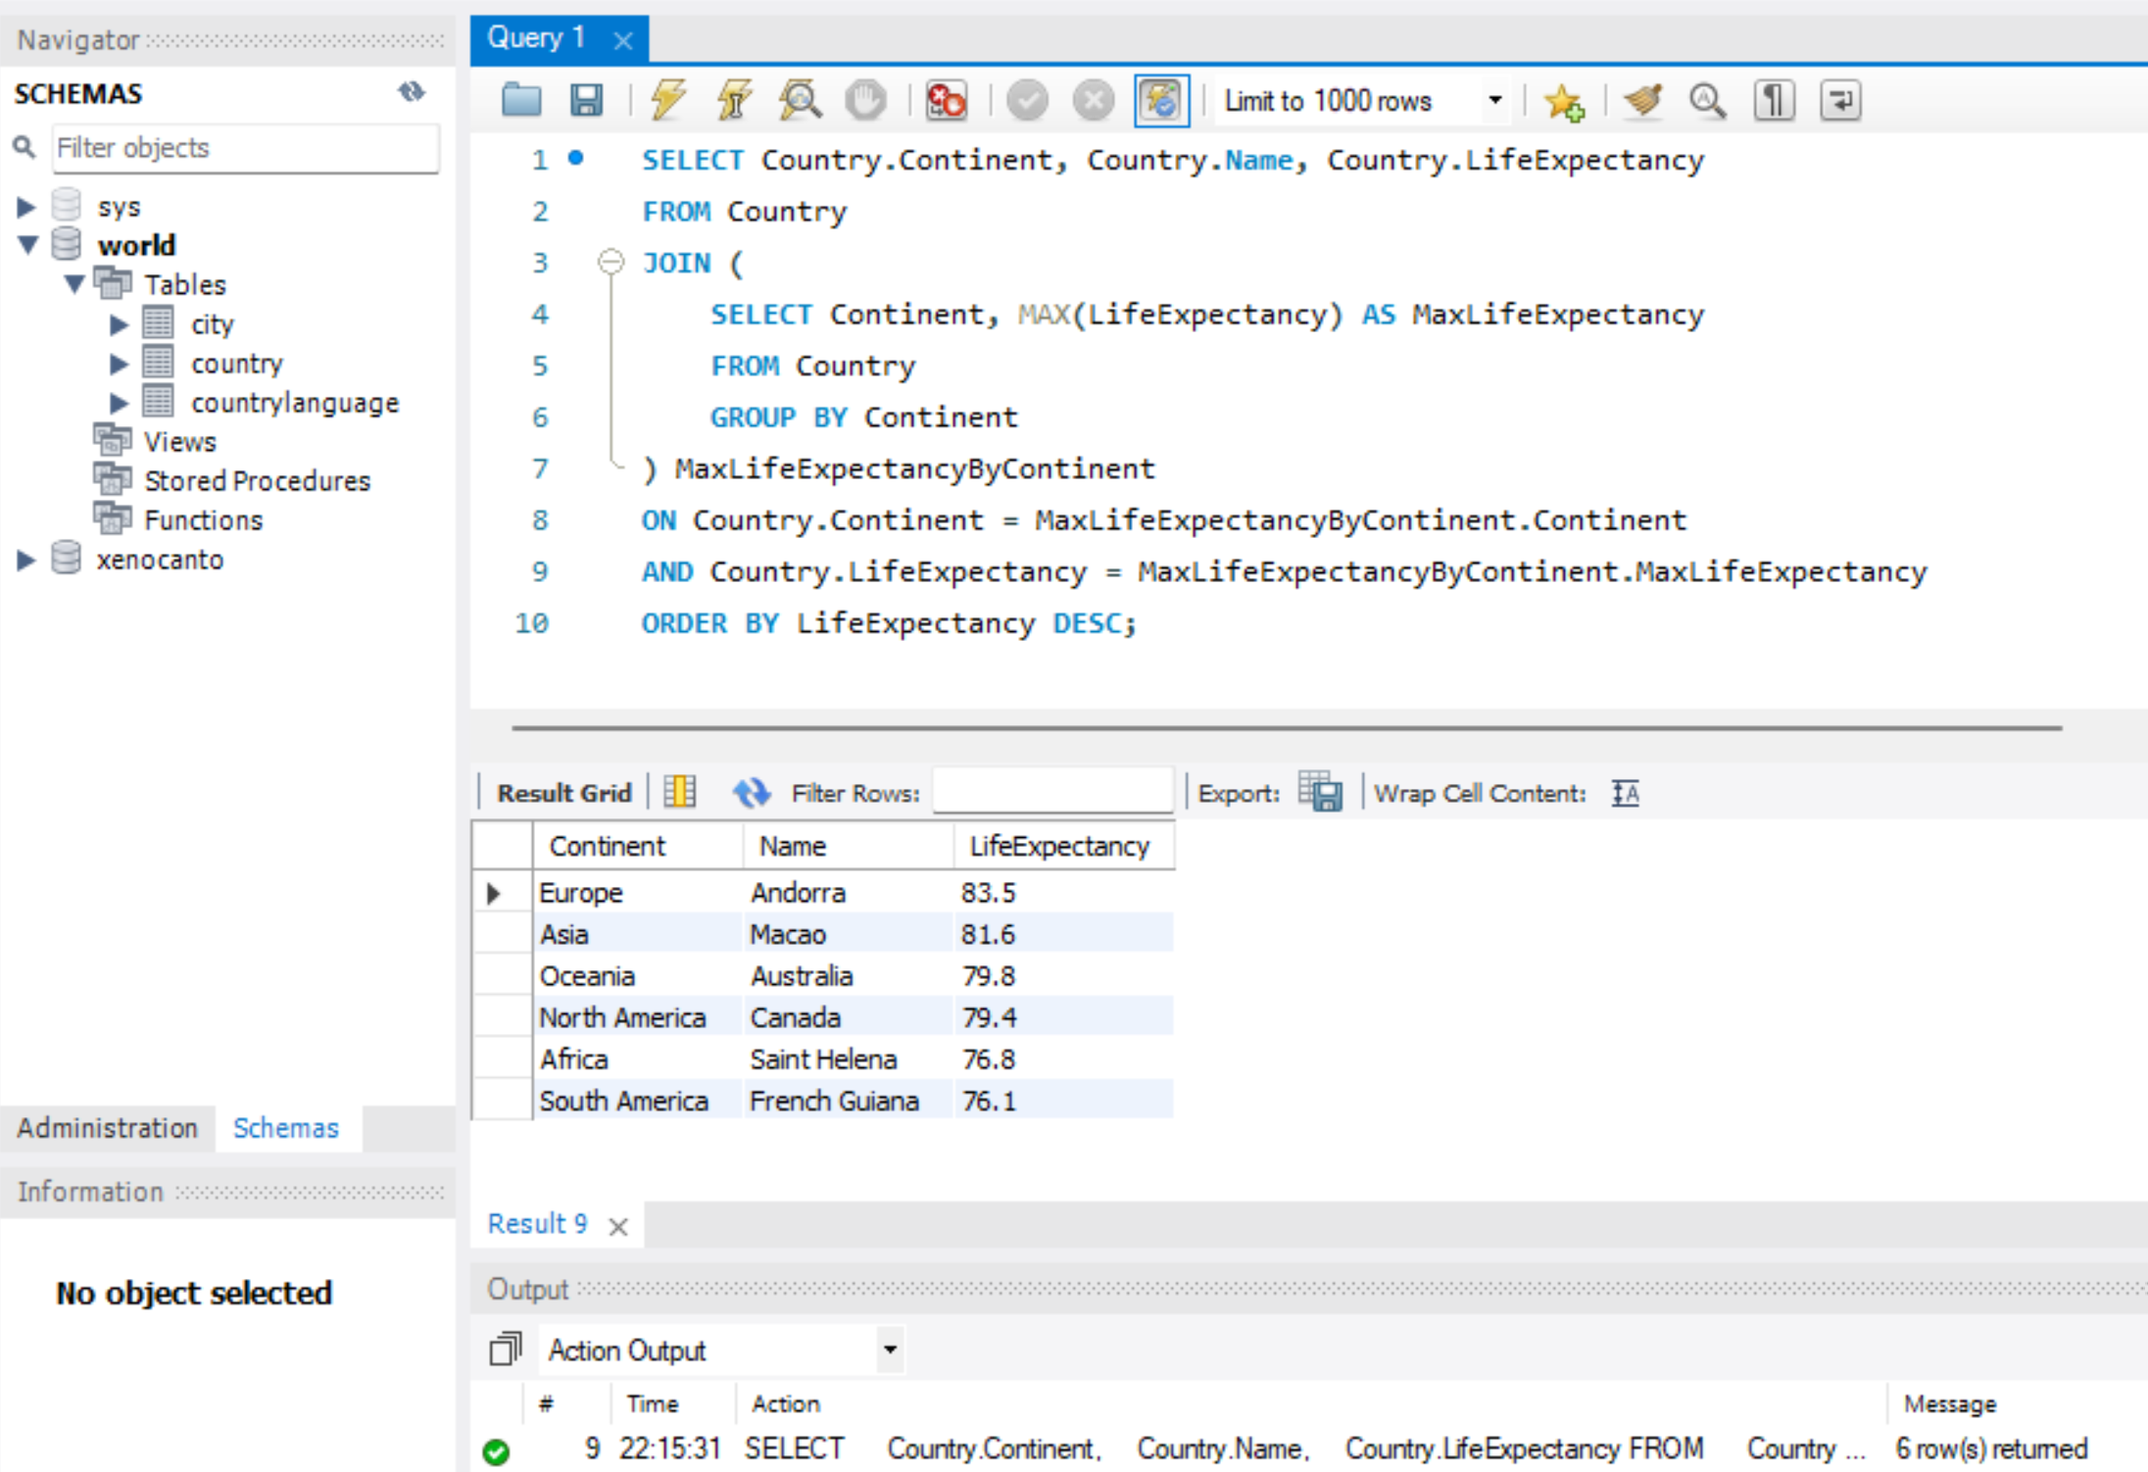
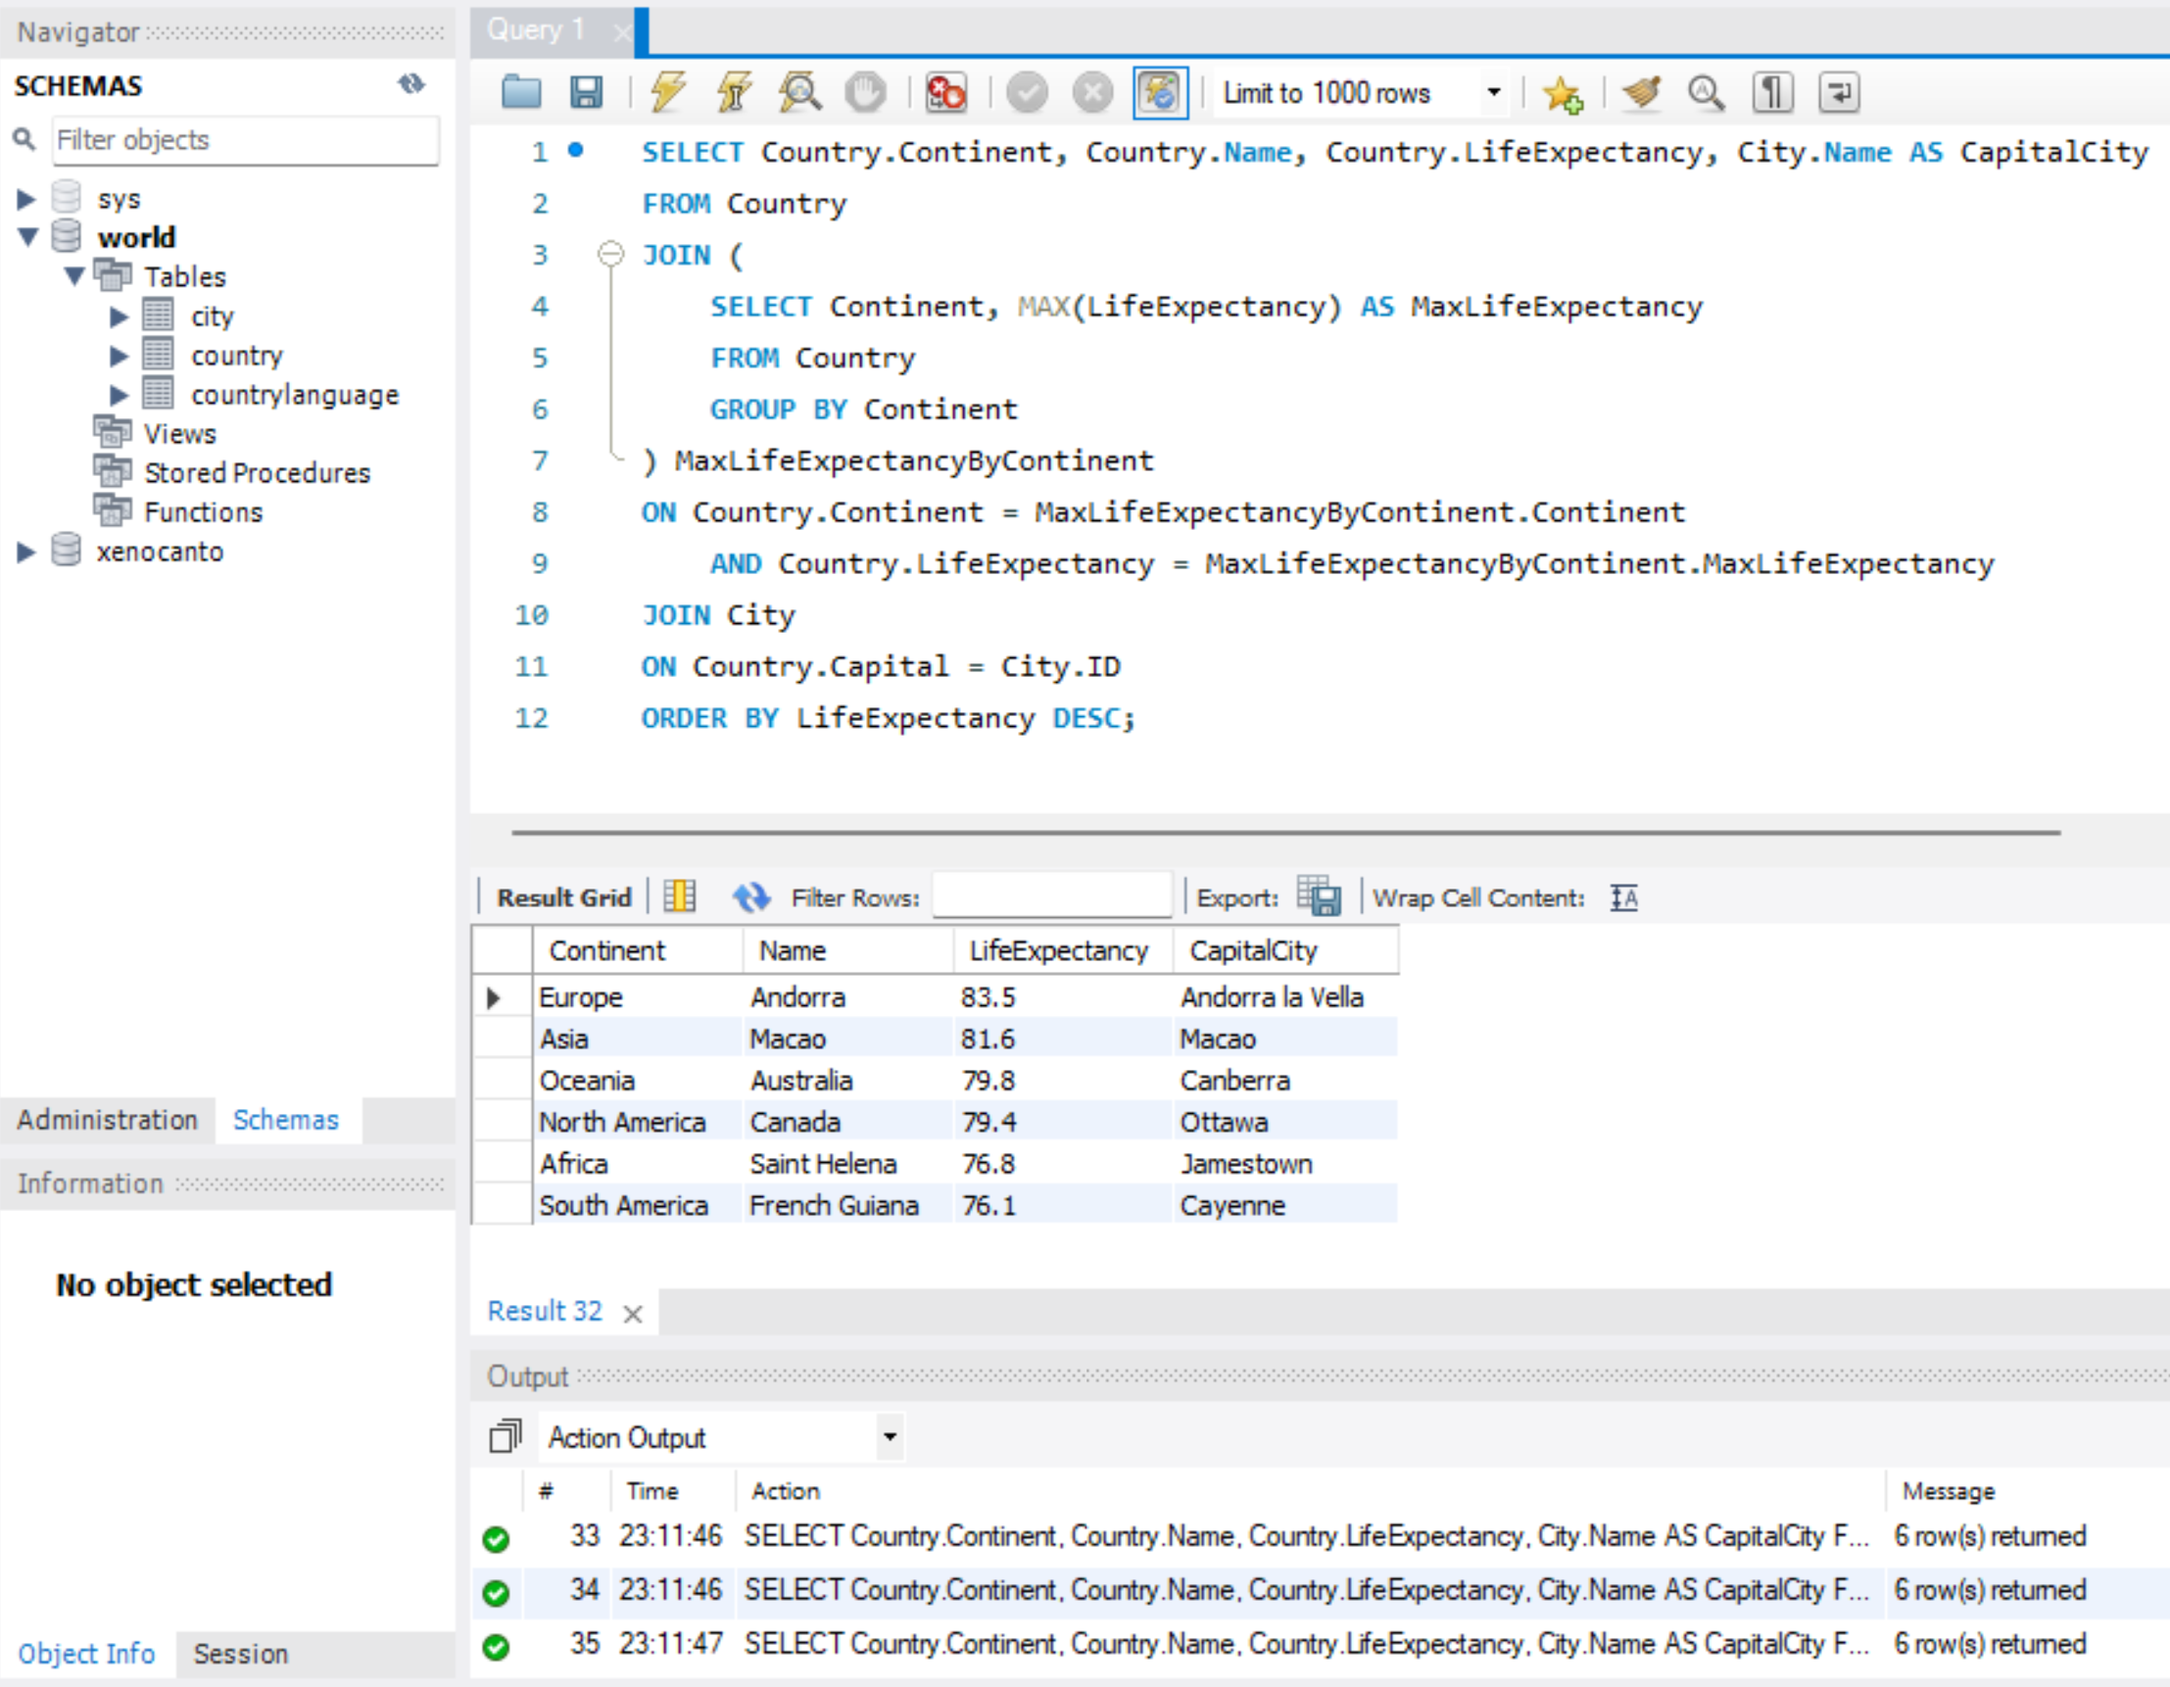
Changed query to include 2 joins

diff --git a/README.md b/README.md
@@ -27,10 +27,11 @@ The `city`, `country`, and `countrylanguage` tables had the following columns:
 
 The following query finds the country in each continent with the maximum Life Expectancy. It returns the Continent, Country Name, and Life Expectancy in descending order.
 ```sql
-SELECT
+SELECT 
     Country.Continent,
     Country.Name,
-    Country.LifeExpectancy
+    Country.LifeExpectancy,
+    City.Name AS CapitalCity
 FROM 
     Country
 JOIN 
@@ -46,18 +47,22 @@ JOIN
 ON 
     Country.Continent = MaxLifeExpectancyByContinent.Continent
     AND Country.LifeExpectancy = MaxLifeExpectancyByContinent.MaxLifeExpectancy
+JOIN 
+    City
+ON 
+    Country.Capital = City.ID
 ORDER BY LifeExpectancy DESC;
 ```
 ### Query Explanation 
-1. `SELECT Country.Continent, Country.Name, Country.LifeExpectancy`
+1. `SELECT Country.Continent, Country.Name, Country.LifeExpectancy, City.Name AS CapitalCity`
 
-      We are selecting the continent, country name, and life expectancy from the "Country" table.
+      We are selecting the continent, country name, life expectancy, and city from the "Country" and "City" tables.
 
 2. `FROM Country`
 
       We are specifying that we're working with the "Country" table.
 
-3. ```JOIN (...) MaxLifeExpectancyByContinent ON Country.Continent = MaxLifeExpectancyByContinent.Continent AND Country LifeExpectancy = MaxLifeExpectancyByContinent.MaxLifeExpectancy```
+3. ```JOIN (...) MaxLifeExpectancyByContinent ON Country.Continent = MaxLifeExpectancyByContinent.Continent AND Country.LifeExpectancy = MaxLifeExpectancyByContinent.MaxLifeExpectancy```
 
       We're performing a join operation. The subquery in parentheses calculates the maximum life expectancy for each continent. Then, we're joining the main "Country" table with this subquery based on matching continents and life expectancies to get the countries with the highest life expectancy in each continent.
     
@@ -69,20 +74,24 @@ ORDER BY LifeExpectancy DESC;
 
       This specifies the conditions for the join, ensuring that we're matching countries with the highest life expectancy in their respective continents.
 
-6. ```ORDER BY LifeExpectancy DESC;```
+6. ```JOIN City ON Country.Capital = City.ID```
+
+      We're performing another join operation. We are joining the country's capital (which is represented by an ID in the "Country" table) to the ID of the city in the "City" table.
+
+7. ```ORDER BY LifeExpectancy DESC;```
 
       This sorts the final outcome by LifeExpectancy in descending order.
 
 ### Query Results
 The query shows that the countries from each continent with the highest life expectancy are as follows:
 
-| Continent      | Name          | LifeExpectancy |
-|--------------- |-------------- |-------------- |
-| Europe         | Andorra       | 83.5          |
-| Asia           | Macao         | 81.6          |
-| Oceania        | Australia     | 79.8          |
-| North America  | Canada        | 79.4          |
-| Africa         | Saint Helena  | 76.8          |
-| South America  | French Guiana | 76.1          |
+| Continent       | Country         | Life Expectancy | Capital City     |
+| --------------- | ---------------| ---------------| ---------------- |
+| Europe          | Andorra         | 83.5           | Andorra la Vella |
+| Asia            | Macao           | 81.6           | Macao            |
+| Oceania         | Australia       | 79.8           | Canberra         |
+| North America   | Canada          | 79.4           | Ottawa           |
+| Africa          | Saint Helena    | 76.8           | Jamestown        |
+| South America   | French Guiana   | 76.1           | Cayenne          |
 
 ![Alt text](img/results.png)
